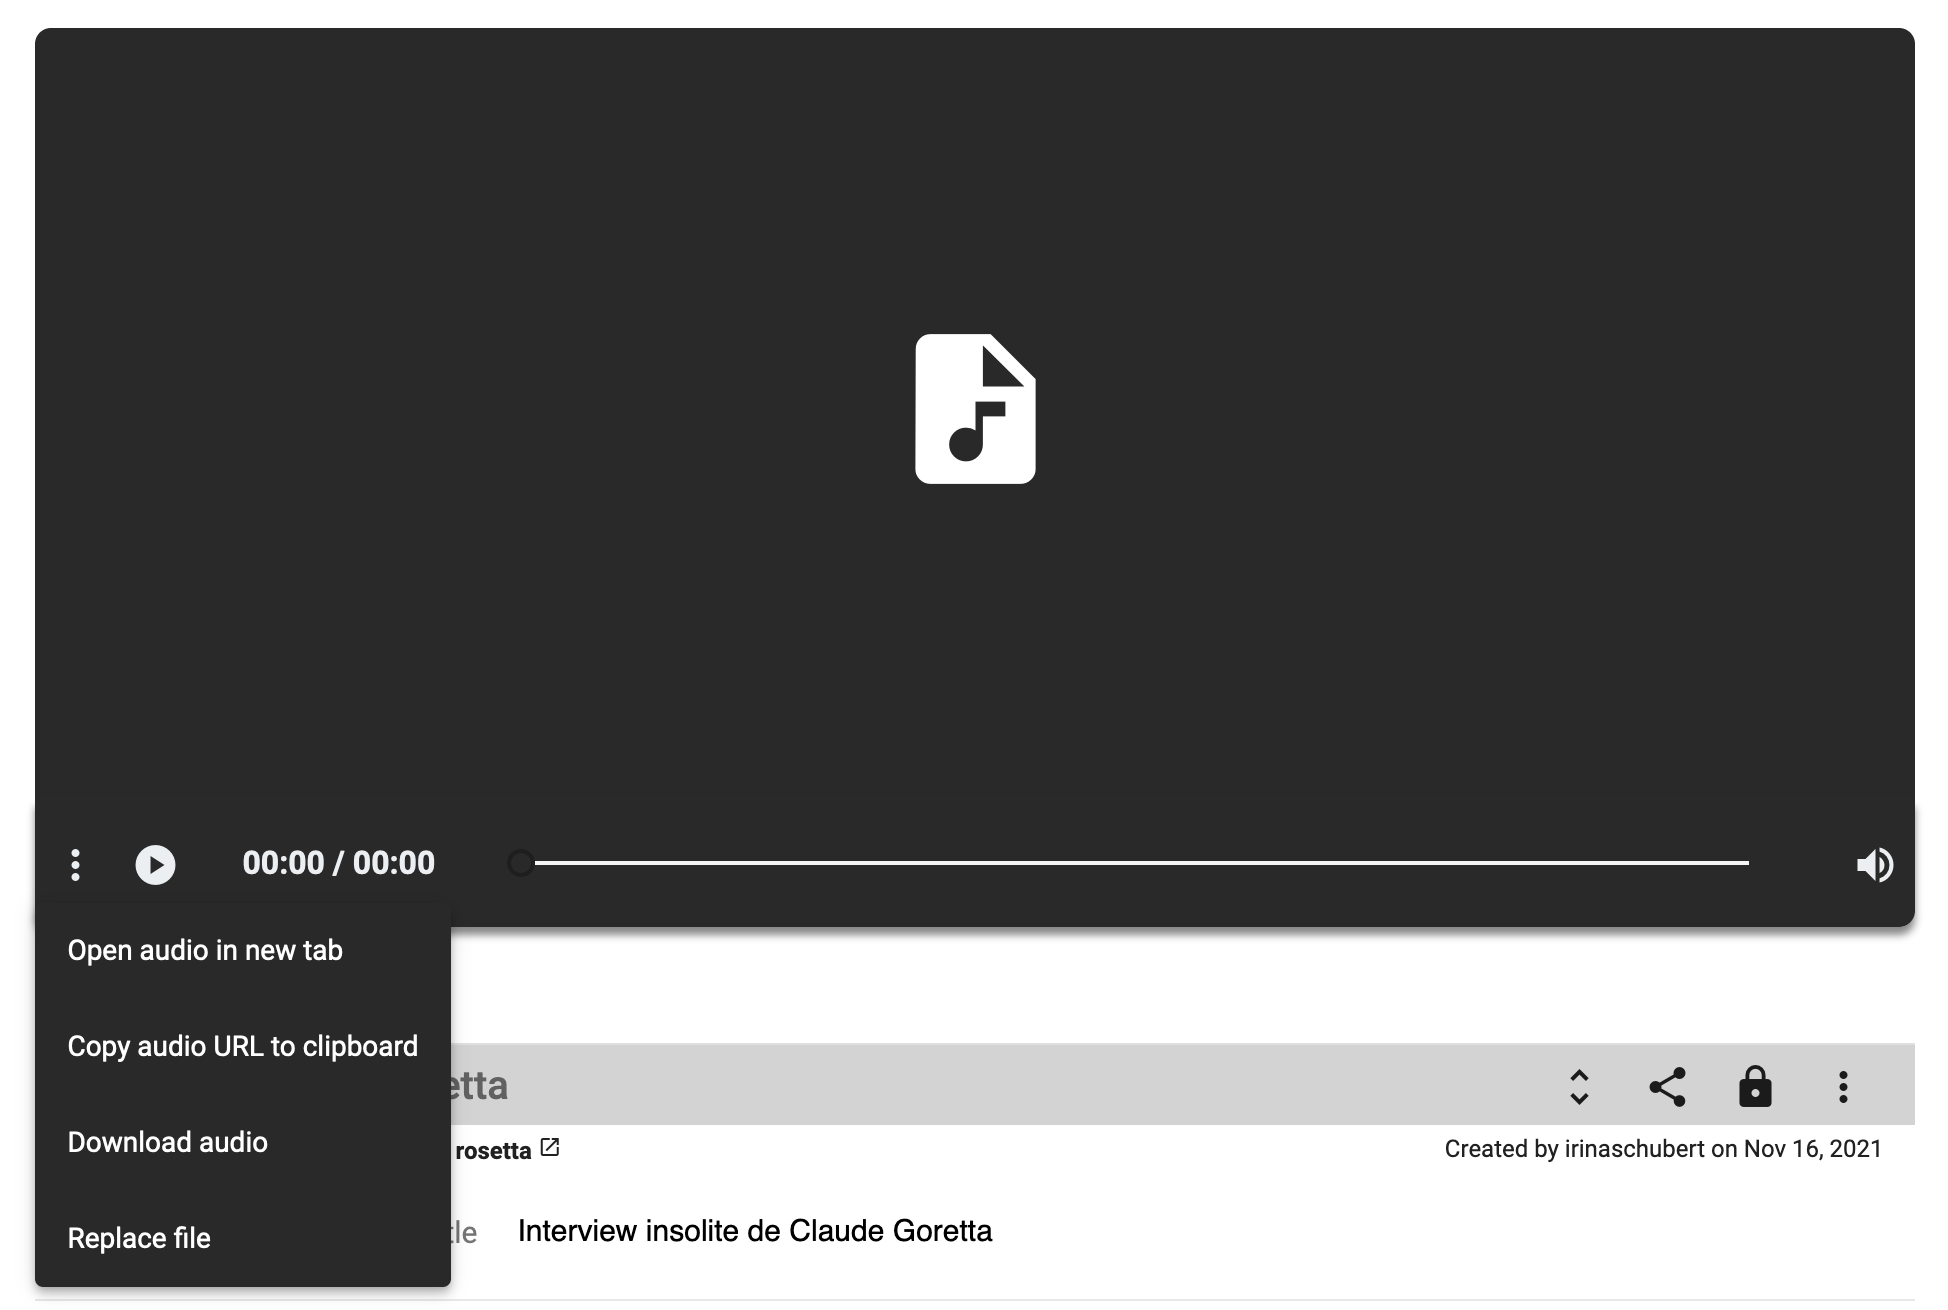
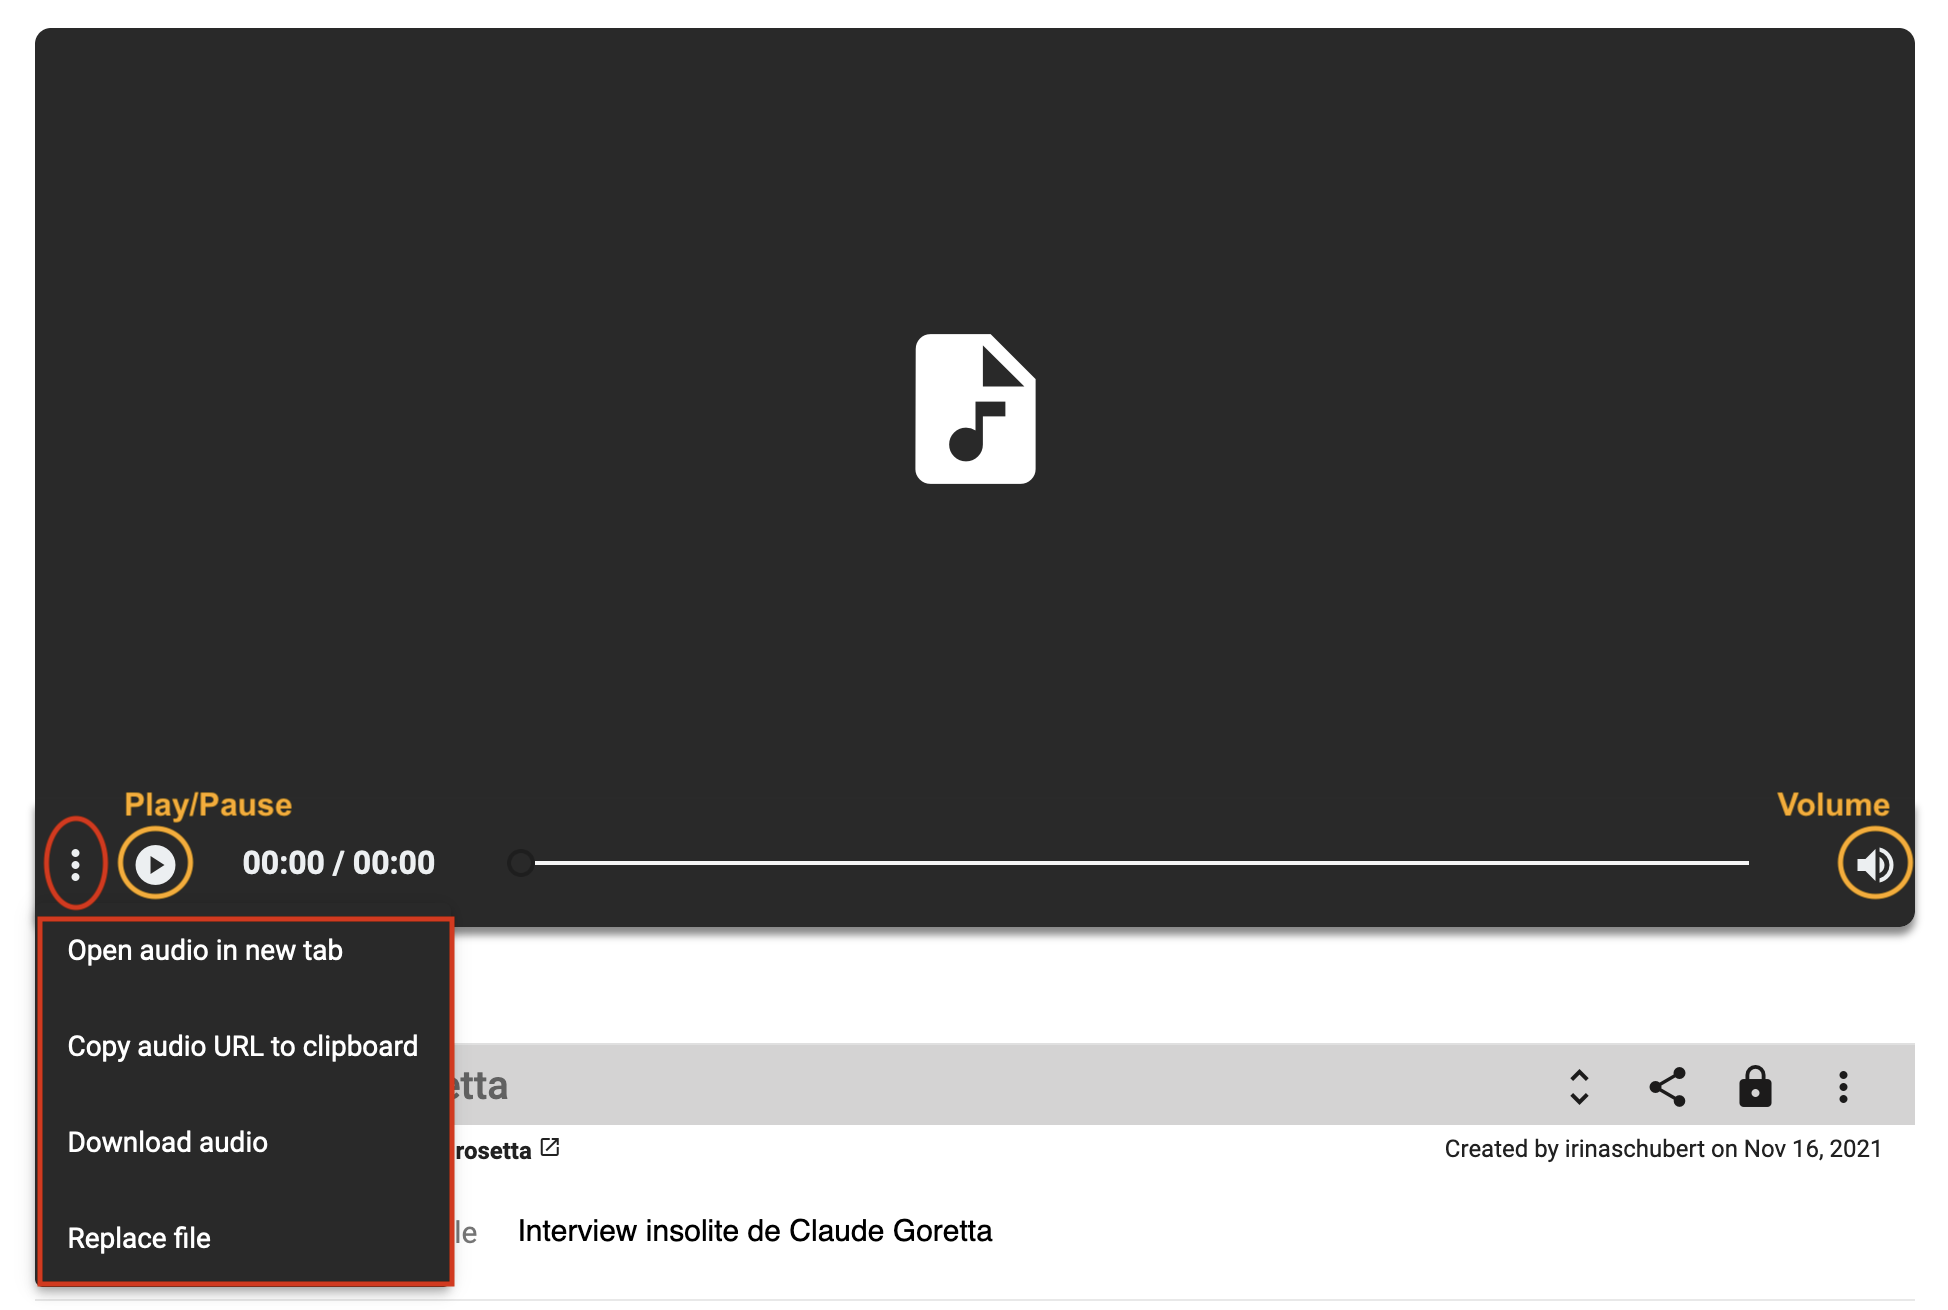
docs: Add legends and supported formats

diff --git a/docs/user-guide/data.md b/docs/user-guide/data.md
@@ -195,9 +195,13 @@ Additionally, you can work on the resource directly, e.g, mark regions of intere
 
 ##### Audio file
 
+Supported format: **mp3**
+
 ![Audio viewer](../assets/images/audio-file.png)
 
 ##### Image file
+
+Supported format: **jpeg**, **jp2**, **tiff**, **tiff-x**, **png**
 
 When you open a resource that contains an image, this one is displayed in a viewer. Several functionalities are accessible from the image viewer, e.g. zoom in/out, copy the IIIF link, replace the image or draw a region on the image.
 
@@ -208,21 +212,29 @@ To access the regions, go to the annotation panel. You can **click on a region**
 
 ![Access the annotation panel](../assets/images/access_annotation_panel.png)*Access the annotation panel from the resource toolbar.*
 
-##### PDF file
+##### Document file
+
+Supported format: **PDF**
 
 ![PDF viewer](../assets/images/pdf-file.png)
 
 ##### Text file
 
+Supported format: **csv**, **txt**, **xml**
+
 ![Text viewer](../assets/images/text-doc-file.png)
 
 ##### Video file
 
+Supported format: **mp4**
+
 ![Video viewer](../assets/images/video-file.png)
 
-##### ZIP file
+##### Archive file
 
-![ZIP viewer](../assets/images/zip-file.png)
+Supported format: **zip**, **x-tar**, **gzip**
+
+![Archive viewer](../assets/images/zip-file.png)
 
 #### Display resource properties
 
